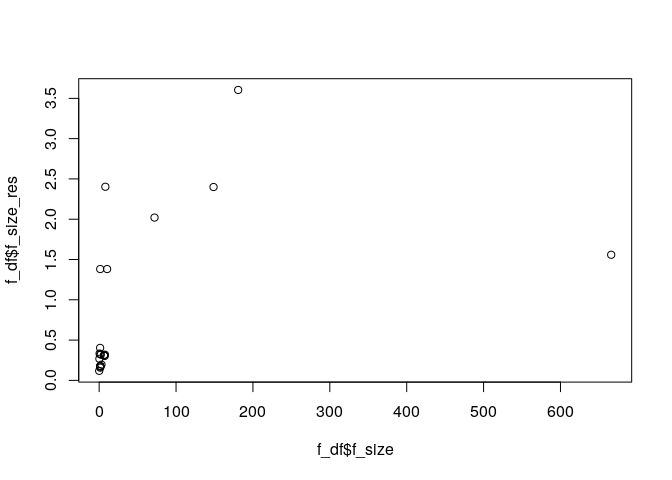
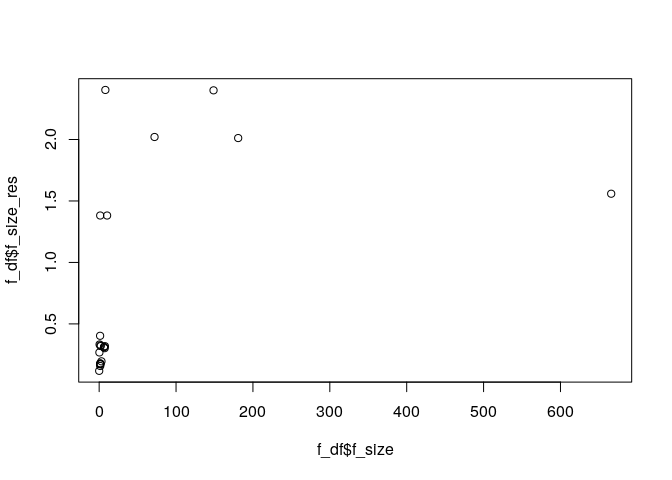
Update readme

diff --git a/README.md b/README.md
@@ -3,6 +3,11 @@
 
 # Creating interactive web maps from raster datasets in R
 
+The examples below show how to create interactive maps, for publication
+online, from old photos. Other resources explaining how to do this have
+been created, including this:
+<https://kokoalberti.com/articles/georeferencing-and-digitizing-old-maps-with-gdal/>
+
 To run this code you’ll need the following R packages installed:
 
 ``` r
@@ -96,9 +101,9 @@ for(j in 1:nrow(f_df)) {
 sum(f_df$f_size)
 #> [1] 1132.156
 sum(f_df$f_size_res, na.rm = TRUE)
-#> [1] 18.81059
+#> [1] 17.21778
 sum(f_df$f_size) / sum(f_df$f_size_res, na.rm = TRUE)
-#> [1] 60.18713
+#> [1] 65.75502
 plot(f_df$f_size, f_df$f_size_res)
 ```
 
@@ -111,7 +116,7 @@ knitr::kable(head(f_df[c(1, 2, 4)]), digits = 0)
 |    | f                                                | f\_size | f\_size\_res |
 | -- | :----------------------------------------------- | ------: | -----------: |
 | 20 | NLS\_40\_01.tif                                  |     666 |            2 |
-| 22 | RAF\_1947\_CO35\_6\_0035\_5133\_RS\_modified.tif |     181 |            4 |
+| 22 | RAF\_1947\_CO35\_6\_0035\_5133\_RS\_modified.tif |     181 |            2 |
 | 23 | RAF\_1947\_CO35\_6\_0035\_5133\_RS.tif           |     149 |            2 |
 | 6  | DSC03273.TIF                                     |      72 |            2 |
 | 2  | 1836\_Bryant\_combined.tif                       |      10 |            1 |
@@ -171,6 +176,8 @@ sensible to try a method first on a small dataset and only after
 tweaking the methods/settings on things that run quickly, run it on the
 whole dataset.
 
+We will use the smaller .tif files for now.
+
 ## Vector data
 
 Vector data is available from a wide range of places. OpenStreetMap is a
@@ -190,6 +197,10 @@ plot(rotherwas_boundary)
 
 ![](README_files/figure-gfm/unnamed-chunk-11-1.png)<!-- -->
 
+``` r
+# write_sf(rotherwas_boundary, "rotherwas_boundary.geojson") # save the file
+```
+
 We can plot this in an interactive mapping environment as follows:
 
 ``` r
@@ -198,3 +209,77 @@ tm_shape(rotherwas_boundary) +
 ```
 
 ![](README_files/figure-gfm/unnamed-chunk-13-1.png)<!-- -->
+
+## Georectification
+
+QGIS can georectify images using the [Georeferencer
+plugin](https://docs.qgis.org/testing/en/docs/user_manual/plugins/plugins_georeferencer.html),
+as illustrated below.
+
+![](qgis-screenshot.png)<!-- -->
+
+The small .tif files that were created using the methods above were
+saved in a folder called `georectified`. Note: you can remove black
+edges and reduce files sizes in QGIS’s save options, which is an
+interface to GDAL settings.
+
+## Tiling
+
+To create a ‘slippy map’ that users can zoom in and out, we can build a
+tile pyramid with GDAL. We will do this from a shell, in this case
+`bash`, the default shell on many Linux systems (see
+<https://gdal.org/programs/gdal2tiles.html> for details)
+
+``` bash
+gdal2tiles.py --zoom=2-18 -r near georectified/raf-47.tif t-raf-47
+```
+
+This tiled results can be viewed by opening the file
+`raf-1947-tiles/leaflet.html`, which looks like this:
+
+``` r
+browseURL("t-raf-47/leaflet.html", browser = "firefox")
+```
+
+![](tiles-leaflet-html.png)<!-- -->
+
+## Serving the tiles
+
+Tiles can be served simply by uploading them somewhere that will allow
+people to access the static .tif files, a ‘static file server’ that does
+not need to do anything with the files. One way of doing this is using
+GitHub’s free ‘gh-pages’ file serving system. After creating a new repo,
+this can be done as follows from `bash` (source: the
+[deploy\_site\_github
+vignette](https://pkgdown.r-lib.org/reference/deploy_site_github.html)
+from the pkgdown R package)
+
+``` bash
+git clone git@github.com:foss4lh/rotherwas-tiles.git
+cd rotherwas-tiles
+git checkout --orphan gh-pages
+git rm -rf .
+git commit --allow-empty -m 'Initial gh-pages commit'
+git push origin gh-pages
+cd ..
+cp -Rv t-raf-47 rotherwas-tiles
+```
+
+Once you have pushed the new tiles online, you can see them, e.g. from
+here:
+<https://foss4lh.github.io/rotherwas-tiles/t-raf-47/15/16137/21947.png>
+
+Now we can use the route of the URL for these tiles to create an
+interactive
+map:
+
+``` r
+tiles_url = "https://foss4lh.github.io/rotherwas-tiles/t-raf-47/{z}/{y}/{x}"
+tm_basemap(tiles_url, tms = TRUE) +
+tm_shape(rotherwas_boundary) +
+  tm_borders() +
+  tm_tiles(server = tiles_url, tms = TRUE) +
+  tm_view(set.zoom.limits = c(14, 15))
+```
+
+![](README_files/figure-gfm/unnamed-chunk-19-1.png)<!-- -->
